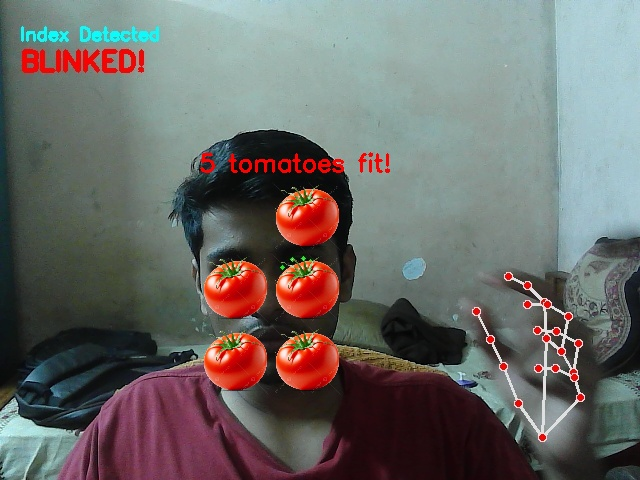
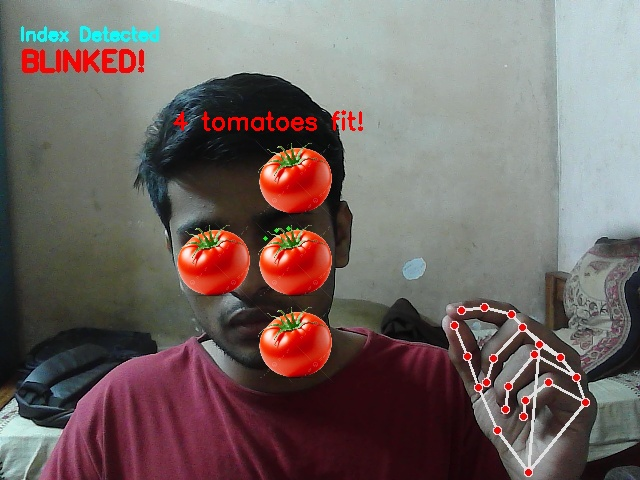
final commit

diff --git a/templates/index.html b/templates/index.html
@@ -2,17 +2,21 @@
 <html lang="en">
 <head>
     <meta charset="UTF-8">
-    <title>TomatoFace™</title>
+    <title>Thakkali Meter™</title>
     <link rel="stylesheet" href="{{ url_for('static', filename='style.css') }}">
     <link href="https://fonts.googleapis.com/css2?family=Poppins:wght@500;700&display=swap" rel="stylesheet">
 </head>
 <body>
-    <h1>TomatoFace™</h1>
-    <a href="/run_facemesh"><button>🍅 Value Me</button></a>
+    <h1>Thakkali Meter™</h1>
+    <p class="subtitle">Ever wondered how much tomato your face is worth?🍅</p>
+    
+    <a href="/run_facemesh"><button> Tomato Me </button></a>
 
     {% if show_image %}
-        <h2>Here's how many tomatoes fit on your face:</h2>
+        <h2>DAAAMNN!!</h2>
         <img src="{{ url_for('static', filename='tomato_face.jpg') }}" alt="Tomato Face">
+        <h3>You got {{ count }} tomatoes on your face!</h3>
+        <h2 lass="roast" style="font-style: italic;">{{ roast }}</h2>
     {% endif %}
 </body>
 </html>

diff --git a/static/style.css b/static/style.css
@@ -60,3 +60,12 @@ a {
         font-size: 1em;
     }
 }
+.subtitle {
+    font-size: 1.2em;
+    color: #666;
+    margin-bottom: 30px;
+}
+
+.roast{
+    margin-top: 0px;
+}

diff --git a/facemesh.py b/facemesh.py
@@ -36,8 +36,6 @@ def generate_frames():
     blink_display_time = 0
     blink_cooldown = 0
     photo_taken = False
-    overlay_tomatoes = False
-    tomato_positions = []
 
     while True:
         success, img = feed.read()
@@ -84,38 +82,27 @@ def generate_frames():
             cv2.putText(img, "Index Detected", (20, 40),
                         cv2.FONT_HERSHEY_SIMPLEX, 0.6, (255, 255, 0), 2)
 
-        if index_detected and show_blink:
+        if index_detected and show_blink and not photo_taken:
             cv2.putText(img, "BLINKED!", (20, 70),
                         cv2.FONT_HERSHEY_SIMPLEX, 0.9, (0, 0, 255), 3)
 
-            if not photo_taken:
-                filename = "captured_face.jpg"
-                cv2.imwrite(filename, img)
-                feed.release()
-                cv2.destroyAllWindows()
-                count, face_box = estimate_tomatoes(filename)
-                print(f"🍅 Tomatoes on face: {count}")
-                overlay_tomatoes = True
-                tomato_positions = []
+            filename = "captured_face.jpg"
+            cv2.imwrite(filename, img)
+            feed.release()
+            cv2.destroyAllWindows()
 
-                if face_box:
-                    x, y, w_, h_ = face_box
-                    for i in range(count):
-                        xi = x + (i % 5) * 45
-                        yi = y + (i // 5) * 45
-                        tomato_positions.append((xi, yi))
+            count, face_box = estimate_tomatoes(filename)
+            print(f"🍅 Tomatoes on face: {count}")
+            return count  # 🟢 Return count immediately
 
-                photo_taken = True
-
-    # Display the frame
         cv2.imshow("TomatoFace™ - Blink & Raise Finger", img)
 
-        # Exit on pressing 'q'
         if cv2.waitKey(1) & 0xFF == ord('q'):
             break
 
     feed.release()
     cv2.destroyAllWindows()
+    return 0  # Default if nothing captured
 
 if __name__ == "__main__":
     generate_frames()

diff --git a/app.py b/app.py
@@ -1,8 +1,25 @@
-from flask import Flask, render_template, redirect, url_for
+from flask import Flask, render_template, redirect, url_for,request
+from facemesh import generate_frames
 import subprocess
 import os
 
 app = Flask(__name__)
+
+def generate_roast(count):
+    if count <= 1:
+        return "You got one tomato? Face reveal cancelled. 🍅🚫"
+    elif count == 2:
+        return "Tiny face, massive disappointment. 🥲"
+    elif count == 3:
+        return "That’s... a modest face. Respectfully. 😐"
+    elif count == 4:
+        return "Mid sauce potential. Not bad, not thakkali. 😶"
+    elif count == 5:
+        return "Respectable! Sauce-worthy face detected. 🍝"
+    elif count == 6:
+        return "Thakkali certified. Saucy and proud. 🍅💅"
+    elif count >= 7:
+        return "Tomato overlord. Ketchup bow down. 🔥🍅👑"
 
 @app.route('/')
 def home():
@@ -10,12 +27,25 @@ def home():
 
 @app.route('/run_facemesh')
 def run_facemesh():
-    subprocess.run(["python", "facemesh.py"])
-    return redirect(url_for('show_result'))
+    count = generate_frames()
+    return redirect(url_for('show_result', count=count))
 
 @app.route('/thakkalimeter')
 def show_result():
-    return render_template('index.html', show_image=True)
+    count = int(request.args.get("count", 0))
+
+    # Optional roast comment
+    roast = ""
+    if count == 0:
+        roast = "Bro you got anti-tomato energy 🧅"
+    elif count < 5:
+        roast = "You could barely fill a ketchup packet 😬"
+    elif count < 10:
+        roast = "Medium rare tomato head 🍅"
+    else:
+        roast = "Certified Tomato Warehouse 🏭"
+
+    return render_template('index.html', show_image=True, count=count, roast=roast)
 
 if __name__ == '__main__':
     app.run(debug=True)
